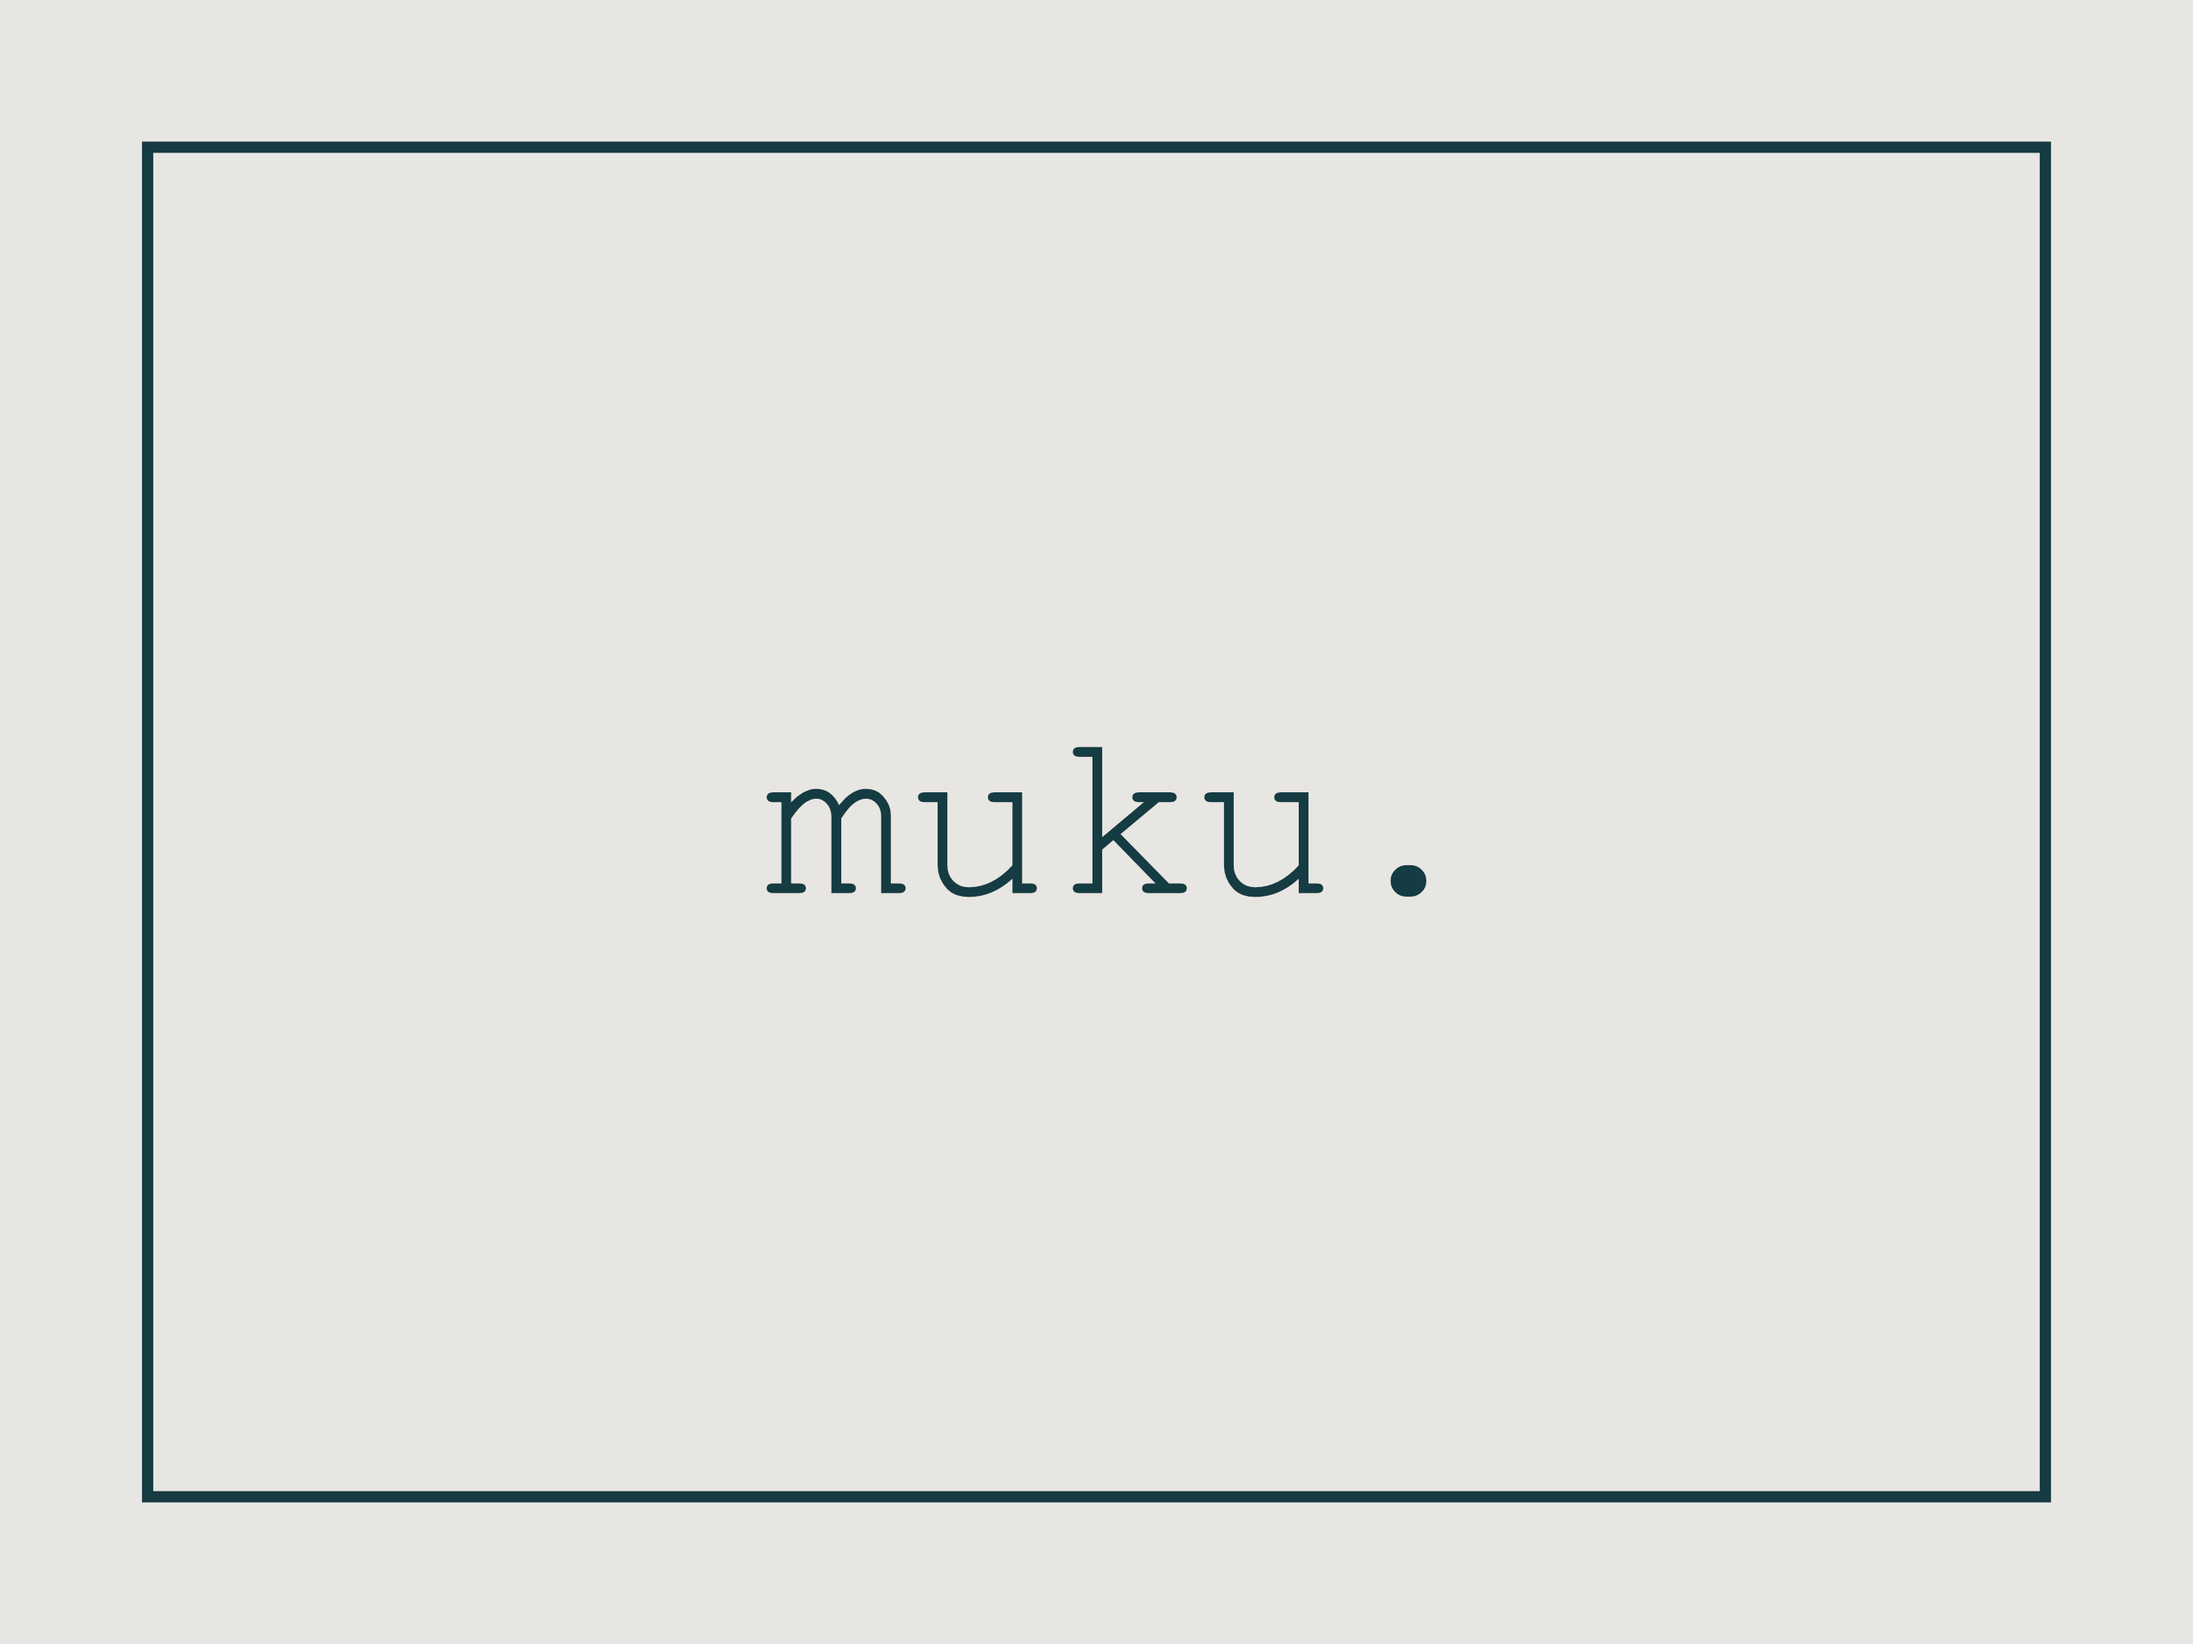
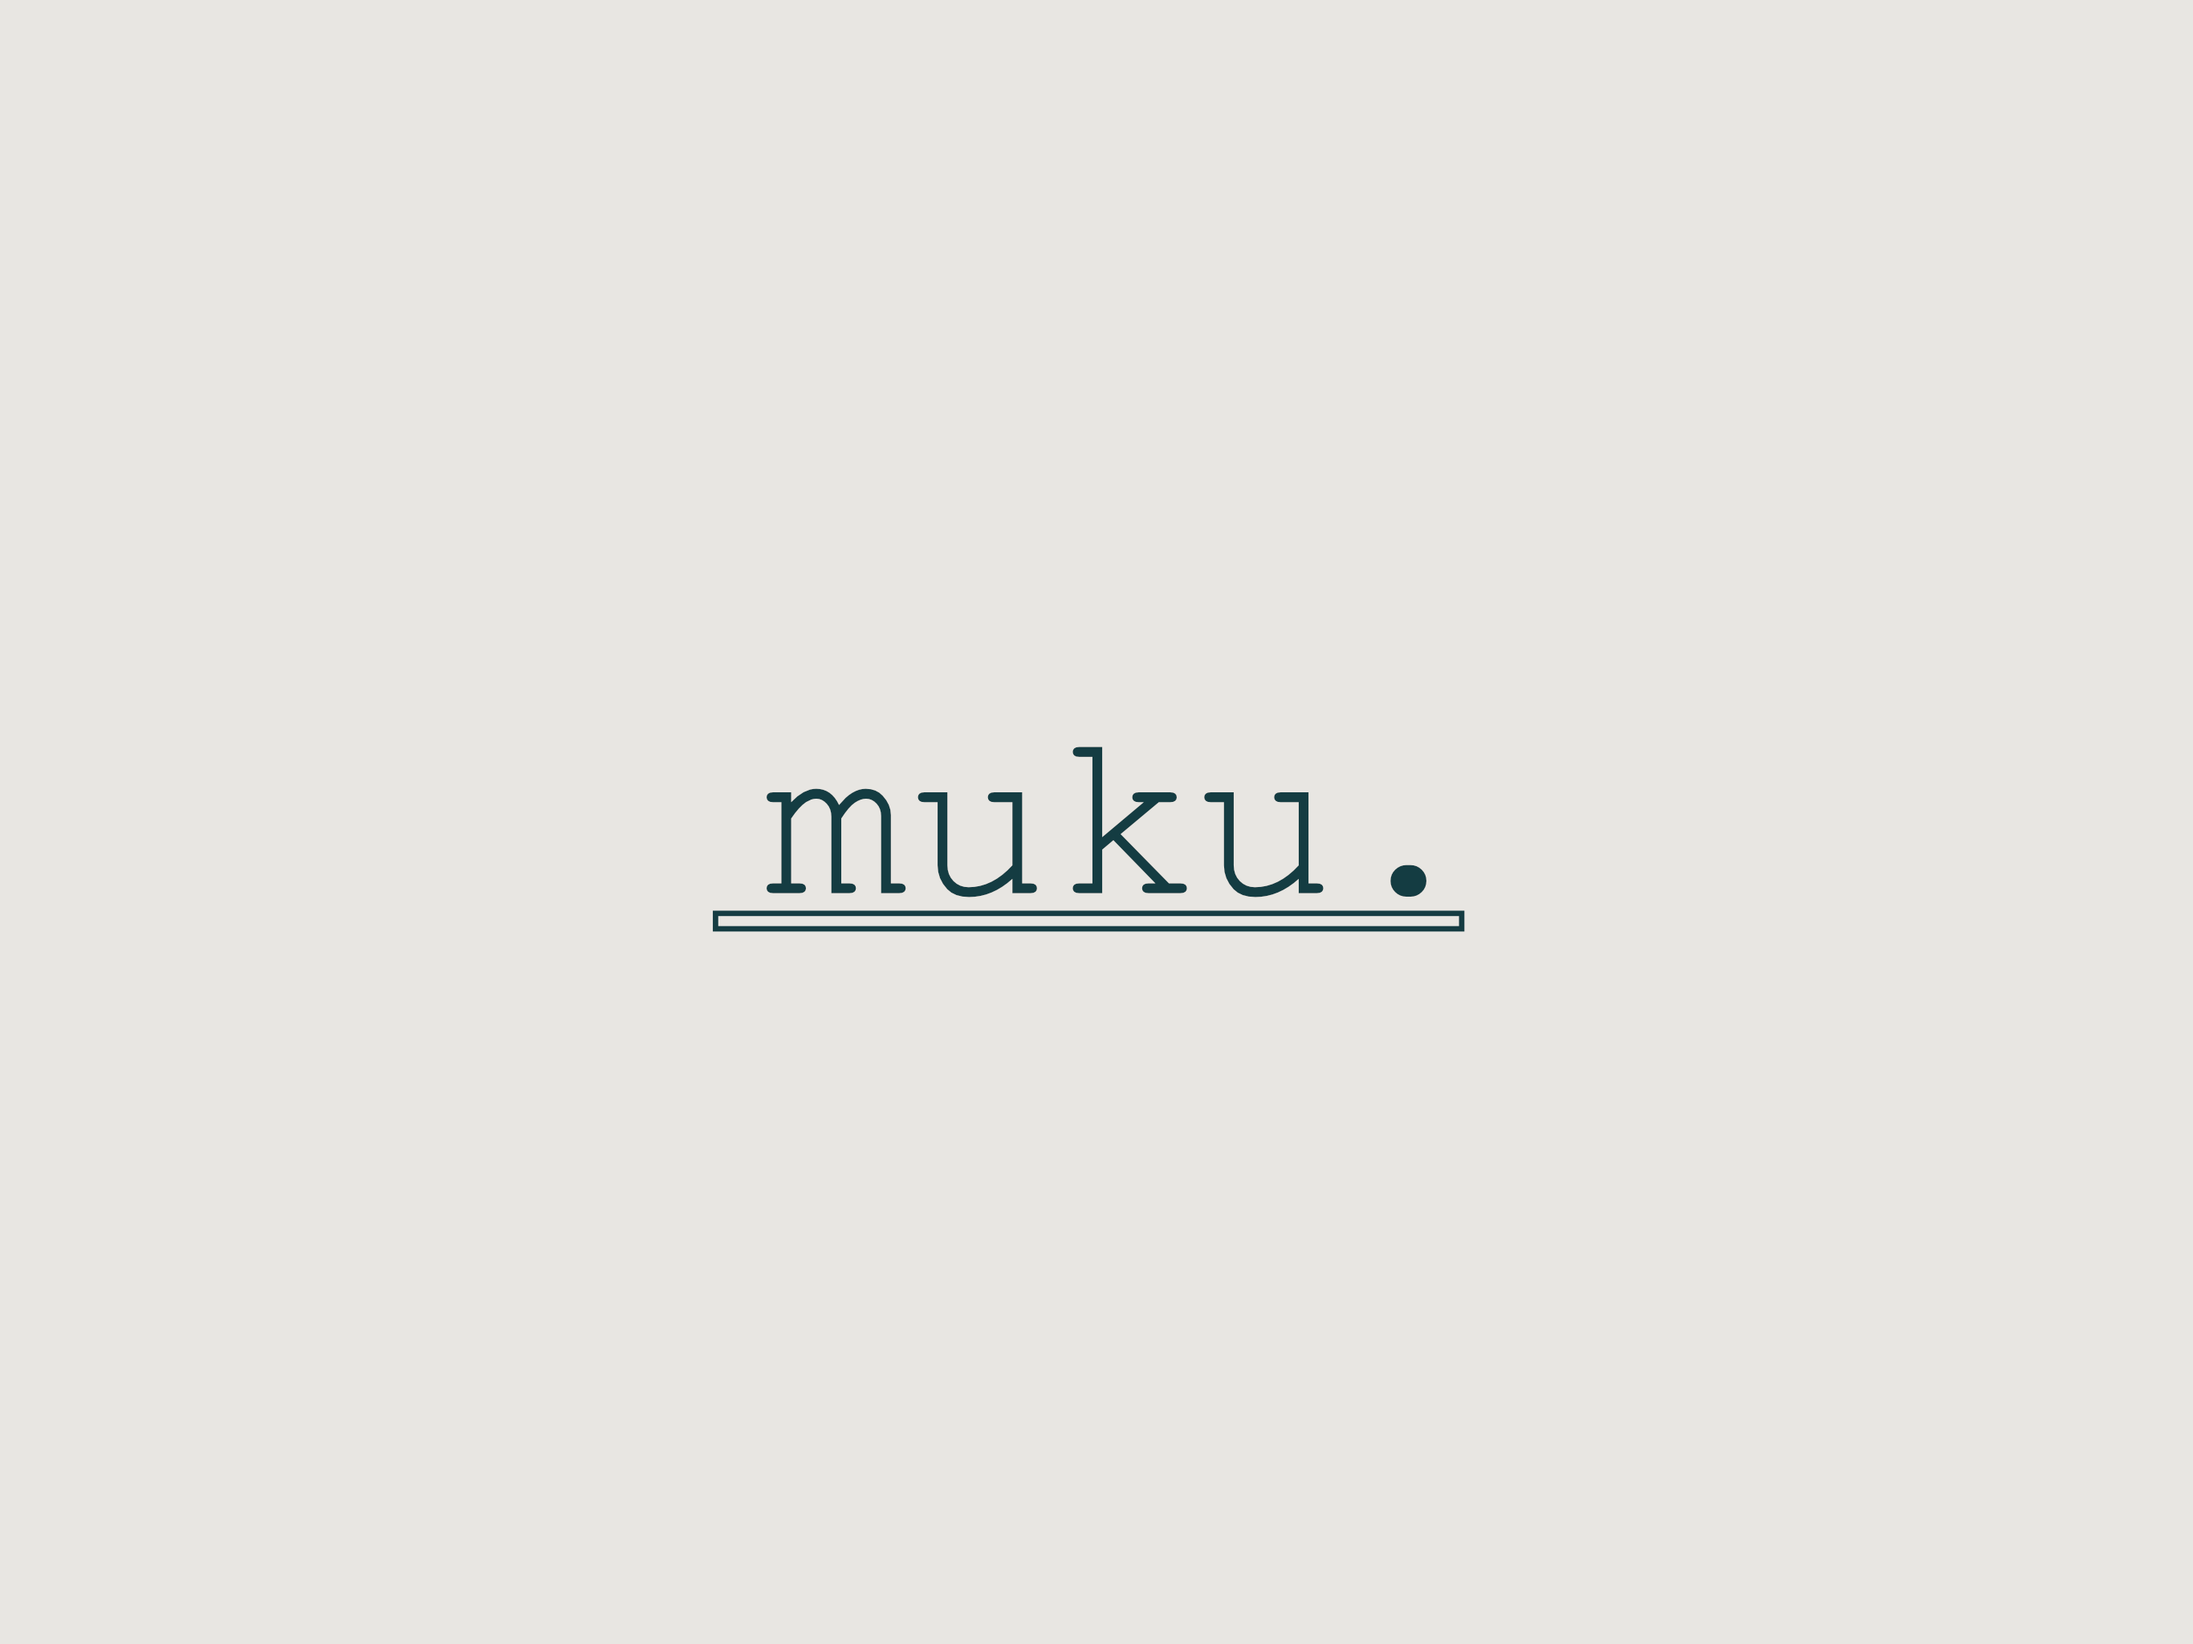
fix: change share png (#26)
* feat/modified next-seo and og:image

* fix: fixed bug

* fixed metatag

* fix: fixed openGraph

* fix: changed share.png

* fix: fixed bug

* fixed metatag

* fix: fixed openGraph

* fix: changed share.tsx

* fix: fixed profile page

Changed region(s): [[0.0622, 0.0625, 0.9334, 0.9375], [0.3422, 0.5312, 0.6534, 0.5938]]

diff --git a/src/pages/profile.tsx b/src/pages/profile.tsx
@@ -1,0 +1,13 @@
+import React from 'react';
+import { NextPage } from 'next';
+import { H1 } from '../styles/globalStyle';
+
+// プロフィール作成予定
+
+const ProfilePage: NextPage = () => {
+  return (
+    <H1>プロフィール作成中...</H1>
+  )
+}
+
+export default ProfilePage;
